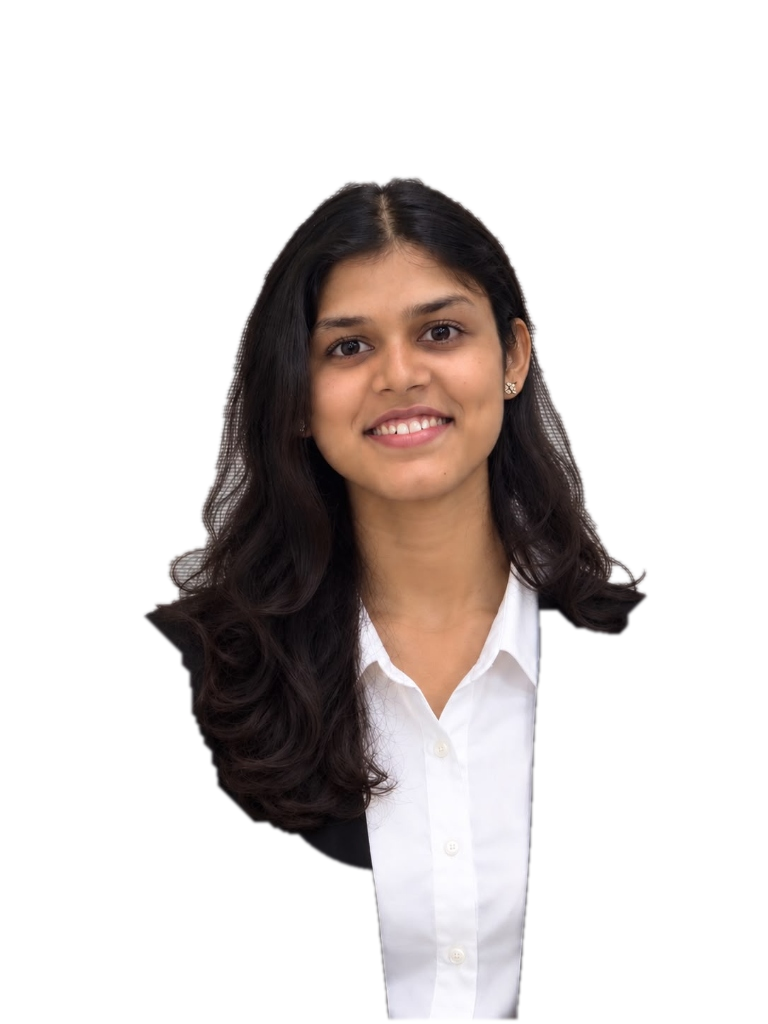
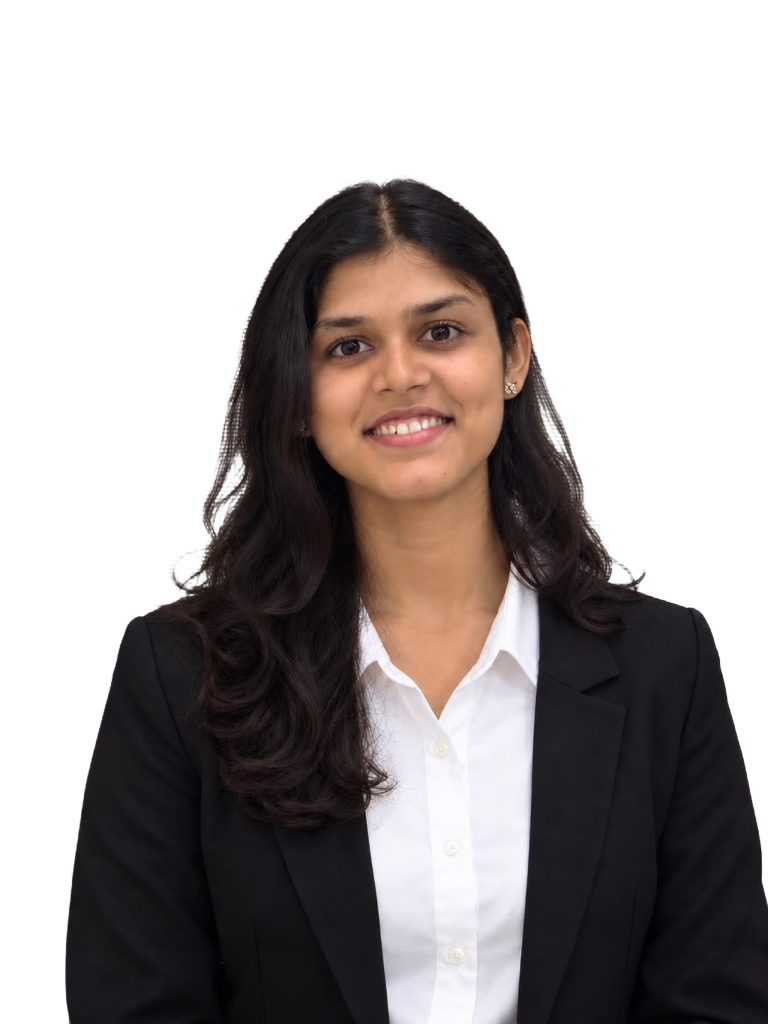
fix: update batch to '28, preserve full blazer in hero portrait, and refine editorial typography

diff --git a/src/components/Hero.tsx b/src/components/Hero.tsx
@@ -47,19 +47,19 @@ export const Hero: React.FC<HeroProps> = ({ onOpenResumeModal }) => {
         </div>
 
         {/* Central Composition: Left Title - Center Portrait - Right Subtitle */}
-        <div className="relative grid grid-cols-1 lg:grid-cols-12 items-center gap-8 my-auto pt-4 pb-8">
-          {/* Left Column: Bold Editorial Headline */}
-          <div className="lg:col-span-4 z-20 text-center lg:text-left order-2 lg:order-1">
+        <div className="relative grid grid-cols-1 lg:grid-cols-12 items-center gap-6 lg:gap-4 my-auto pt-4 pb-8">
+          {/* Left Column: Bold Condensed Editorial Headline */}
+          <div className="lg:col-span-3 xl:col-span-3 z-20 text-center lg:text-left order-2 lg:order-1">
             <div className="space-y-1">
-              <h2 className="font-display-hero text-4xl sm:text-6xl xl:text-7xl uppercase leading-[0.95] text-[#0F0E0D] tracking-tight">
+              <h2 className="font-display-hero text-5xl sm:text-6xl xl:text-7xl uppercase leading-[0.9] text-[#0F0E0D] tracking-tight">
                 I AM
               </h2>
-              <h1 className="font-display-hero text-5xl sm:text-7xl xl:text-8xl uppercase leading-[0.95] text-[#0F0E0D] tracking-tight">
+              <h1 className="font-display-hero text-6xl sm:text-7xl xl:text-8xl uppercase leading-[0.9] text-[#0F0E0D] tracking-tight">
                 GAURI
               </h1>
             </div>
 
-            <p className="mt-5 text-sm sm:text-base text-stone-600 font-normal leading-relaxed max-w-md mx-auto lg:mx-0">
+            <p className="mt-5 text-xs sm:text-sm text-stone-600 font-normal leading-relaxed max-w-sm mx-auto lg:mx-0">
               {PERSONAL_INFO.tagline}
             </p>
 
@@ -76,21 +76,21 @@ export const Hero: React.FC<HeroProps> = ({ onOpenResumeModal }) => {
             </div>
           </div>
 
-          {/* Center Column: Portrait overlapping seamlessly into the bottom fade */}
-          <div className="lg:col-span-4 z-10 flex justify-center order-1 lg:order-2">
-            <div className="relative w-64 sm:w-80 md:w-96 lg:w-[420px] max-w-full">
+          {/* Center Column: Portrait displaying full blazer, shoulders and natural presence */}
+          <div className="lg:col-span-6 xl:col-span-6 z-10 flex justify-center order-1 lg:order-2">
+            <div className="relative w-full max-w-[340px] sm:max-w-[420px] md:max-w-[480px] lg:max-w-[520px]">
               {/* Subtle halo ring */}
               <div 
-                className="absolute inset-0 rounded-full bg-amber-400/20 blur-3xl scale-95 pointer-events-none"
+                className="absolute inset-0 rounded-full bg-amber-400/25 blur-3xl scale-95 pointer-events-none"
                 aria-hidden="true"
               />
 
-              {/* Portrait image with smooth bottom blend */}
-              <div className="relative overflow-visible">
+              {/* Portrait image with full blazer preserved */}
+              <div className="relative overflow-visible flex justify-center">
                 <img
                   src="./gauri-hero.png"
                   alt="Gauri Vijay Kadalge — Portrait"
-                  className="w-full h-auto object-contain filter drop-shadow-md select-none transition-transform duration-700 hover:scale-[1.01]"
+                  className="w-full h-auto max-h-[580px] sm:max-h-[640px] lg:max-h-[680px] object-contain filter drop-shadow-md select-none transition-transform duration-700 hover:scale-[1.01]"
                   loading="eager"
                   decoding="async"
                 />
@@ -99,17 +99,17 @@ export const Hero: React.FC<HeroProps> = ({ onOpenResumeModal }) => {
           </div>
 
           {/* Right Column: Roles, Specialty & Quick Description */}
-          <div className="lg:col-span-4 z-20 text-center lg:text-left order-3">
+          <div className="lg:col-span-3 xl:col-span-3 z-20 text-center lg:text-left order-3">
             <div className="space-y-1">
-              <h3 className="font-display-hero text-2xl sm:text-3xl xl:text-4xl uppercase leading-tight text-[#0F0E0D] tracking-tight">
+              <h3 className="font-display-hero text-2xl sm:text-3xl xl:text-4xl uppercase leading-[0.95] text-[#0F0E0D] tracking-tight">
                 AI SYSTEMS &
               </h3>
-              <h3 className="font-display-hero text-2xl sm:text-3xl xl:text-4xl uppercase leading-tight text-[#0F0E0D] tracking-tight text-amber-700">
+              <h3 className="font-display-hero text-2xl sm:text-3xl xl:text-4xl uppercase leading-[0.95] text-amber-700 tracking-tight">
                 ROBOTICS DEV
               </h3>
             </div>
 
-            <p className="mt-4 text-xs sm:text-sm text-stone-600 font-medium leading-relaxed max-w-md mx-auto lg:mx-0">
+            <p className="mt-4 text-xs sm:text-sm text-stone-600 font-medium leading-relaxed max-w-sm mx-auto lg:mx-0">
               Specialized in Multi-Agent LLMs, Hybrid RAG pipelines, Autonomous ROS2 Robotics, and FinTech systems. B.Tech Computer Science & Artificial Intelligence at Vishwakarma Institute of Technology.
             </p>
 
@@ -134,7 +134,7 @@ export const Hero: React.FC<HeroProps> = ({ onOpenResumeModal }) => {
 
             {/* Academic Snapshot Pill */}
             <div className="mt-6 pt-5 border-t border-stone-200/80 flex items-center justify-center lg:justify-start gap-4 text-xs text-stone-500">
-              <span>B.Tech AI '27</span>
+              <span className="font-semibold text-stone-800">B.Tech AI '28</span>
               <span>•</span>
               <a 
                 href={PERSONAL_INFO.contact.github}

diff --git a/index.html b/index.html
@@ -18,7 +18,7 @@
     <!-- Fonts -->
     <link rel="preconnect" href="https://fonts.googleapis.com">
     <link rel="preconnect" href="https://fonts.gstatic.com" crossorigin>
-    <link href="https://fonts.googleapis.com/css2?family=Cormorant+Garamond:ital,wght@1,400;1,600&family=JetBrains+Mono:wght@400;500;600&family=Playfair+Display:ital,wght@0,600;0,700;0,900;1,600&family=Plus+Jakarta+Sans:wght@300;400;500;600;700;800&family=Syne:wght@700;800&display=swap" rel="stylesheet">
+    <link href="https://fonts.googleapis.com/css2?family=Bebas+Neue&family=Cormorant+Garamond:ital,wght@1,400;1,600;1,700&family=JetBrains+Mono:wght@400;500;600&family=Oswald:wght@500;600;700&family=Playfair+Display:ital,wght@0,600;0,700;0,900;1,600&family=Plus+Jakarta+Sans:wght@300;400;500;600;700;800&family=Syne:wght@700;800&display=swap" rel="stylesheet">
   </head>
   <body class="bg-[#FBFBFA] text-[#1C1917] antialiased selection:bg-amber-200 selection:text-neutral-900">
     <div id="root"></div>

diff --git a/src/index.css b/src/index.css
@@ -17,9 +17,16 @@
 
 /* Custom editorial styles */
 .font-display-hero {
-  font-family: 'Syne', -apple-system, BlinkMacSystemFont, sans-serif;
-  letter-spacing: -0.04em;
-  font-weight: 800;
+  font-family: 'Oswald', 'Plus Jakarta Sans', sans-serif;
+  letter-spacing: 0.01em;
+  font-weight: 700;
+}
+
+.font-editorial-condensed {
+  font-family: 'Oswald', sans-serif;
+  letter-spacing: 0.02em;
+  text-transform: uppercase;
+  font-weight: 700;
 }
 
 .font-editorial-script {
